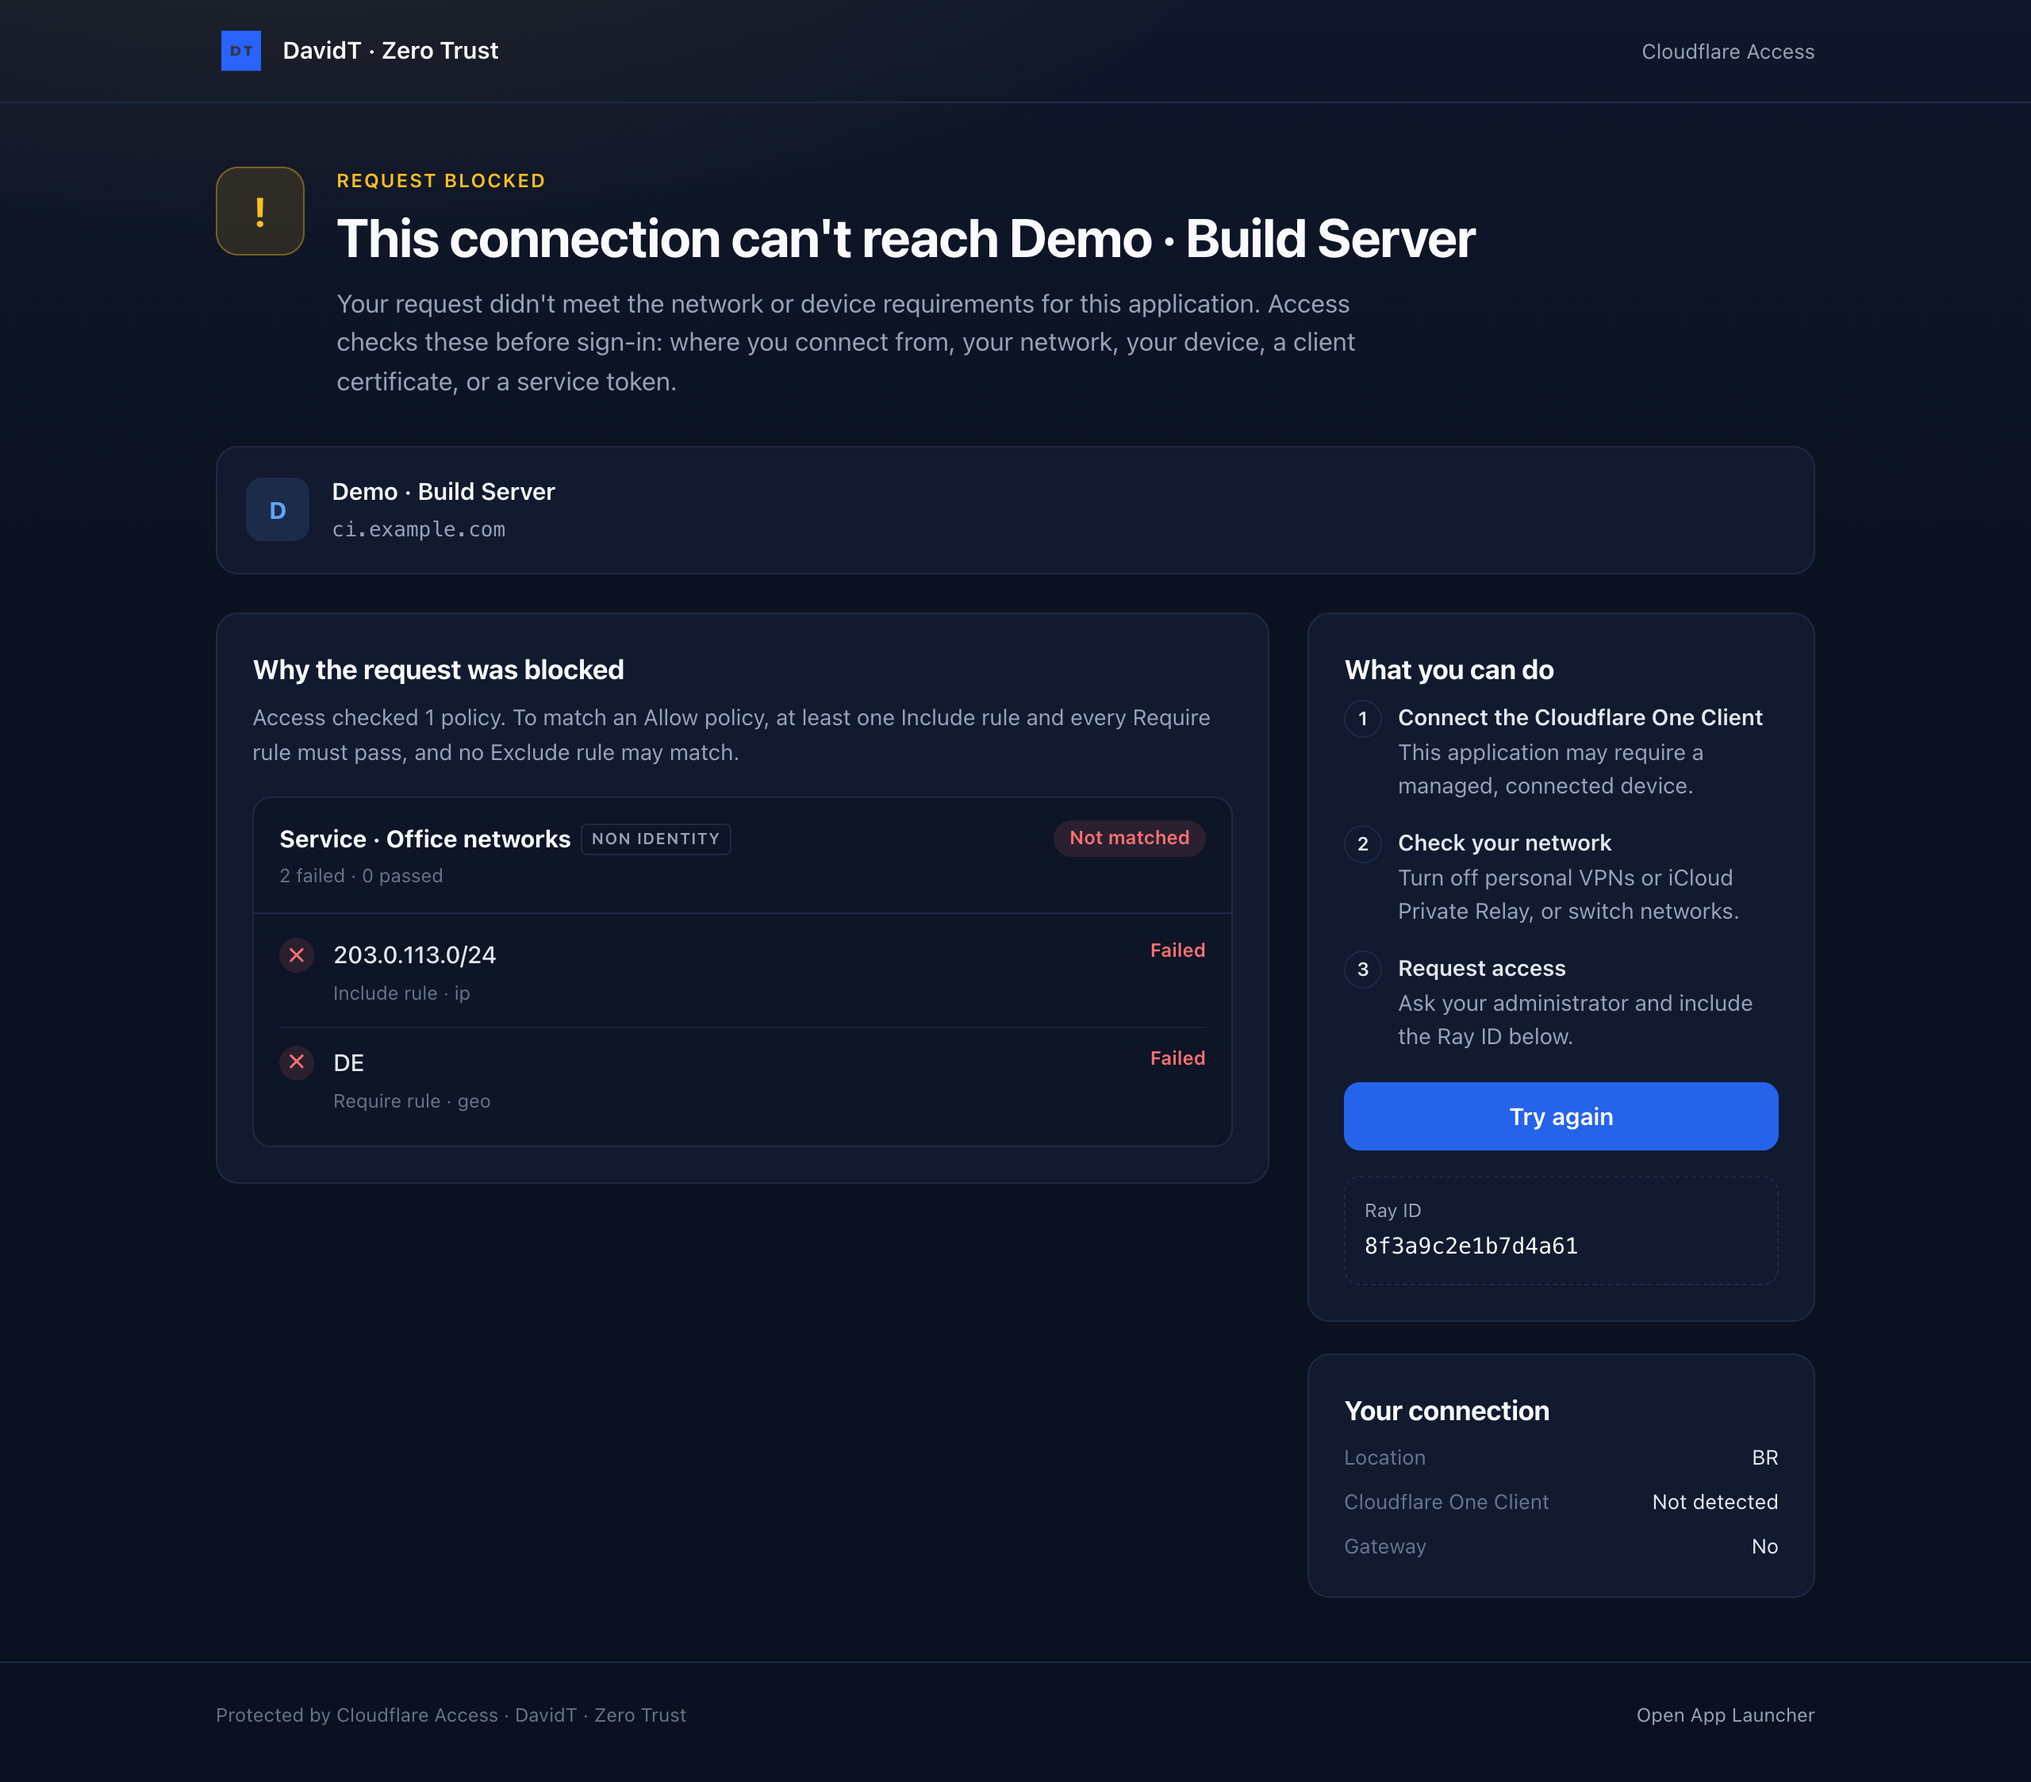
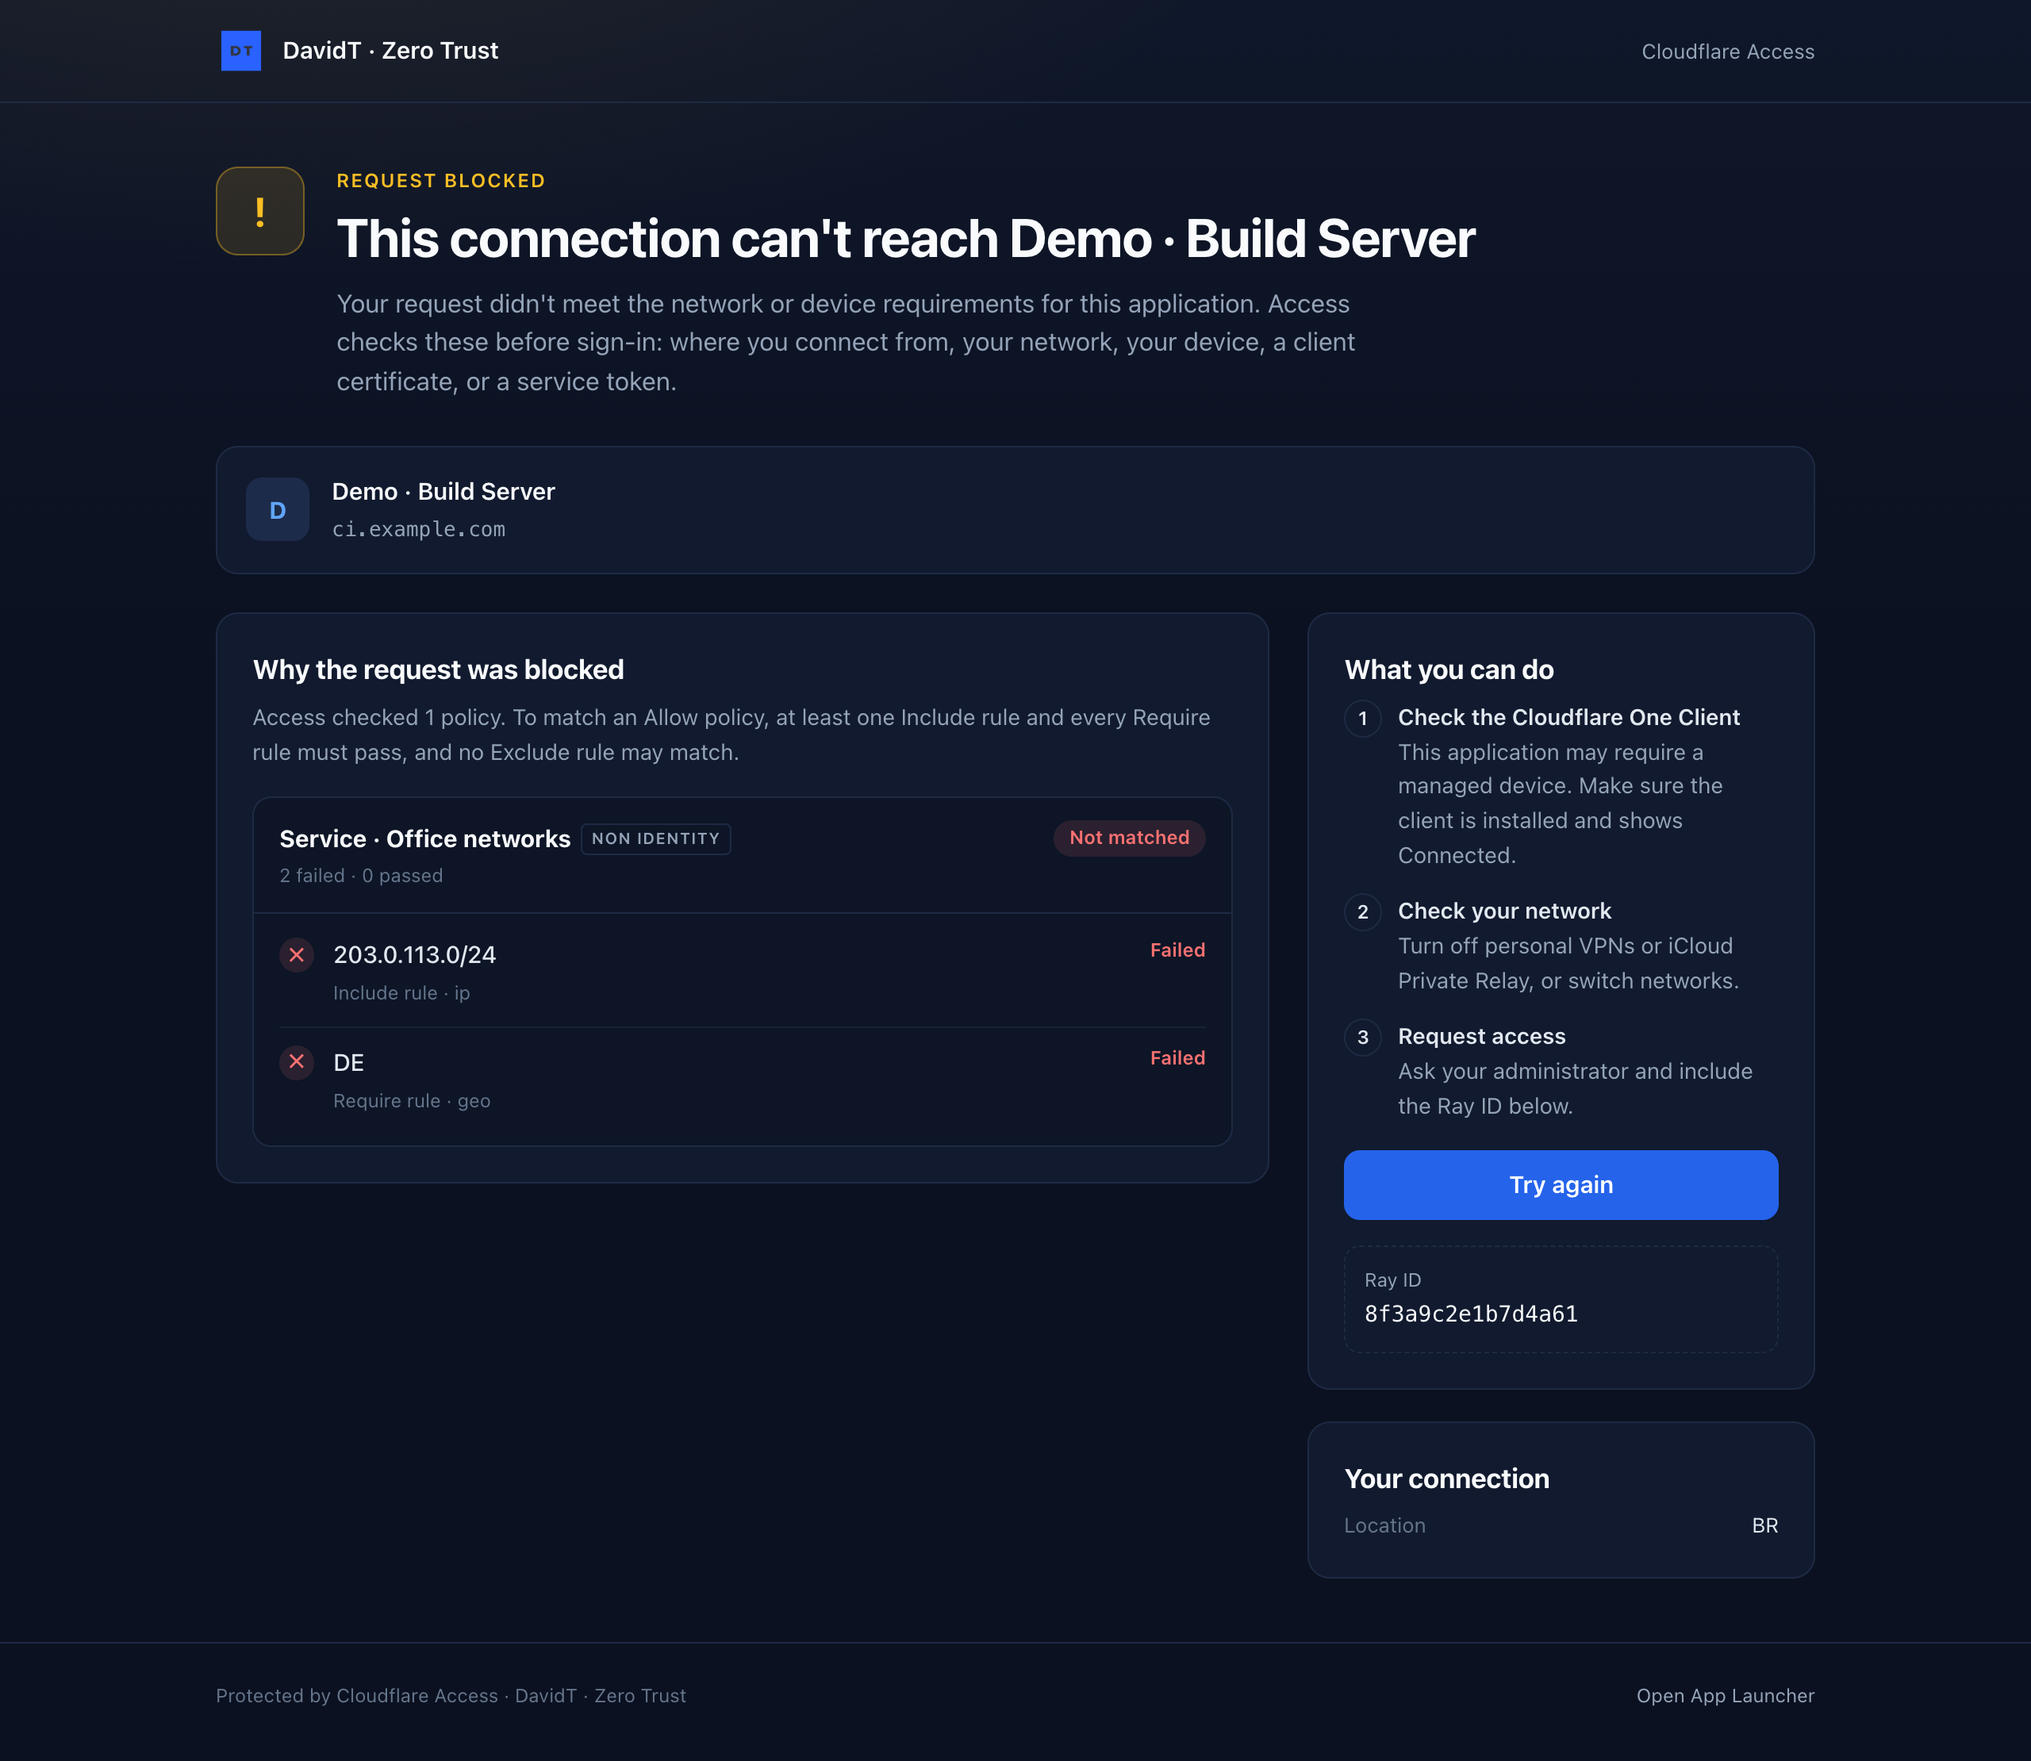
Show client and Gateway status only when Access reports it
In live tests with the Cloudflare One Client connected, Access left request.is_warp and request.is_gateway out of the Login page and sent false on the Forbidden page, so the templates claimed the client was off. They now show these values only when true, and always include a step to check the client. README, AGENTS.md and the Access screenshots are updated to match.

diff --git a/access-pages/forbidden.html b/access-pages/forbidden.html
@@ -9,6 +9,9 @@
   rule names are written by your admins: review them before you show them to
   end users. Remove the groups list if group names are sensitive.
 
+  Access doesn't reliably report request.is_warp or request.is_gateway (seen
+  absent or false while the client was connected), so only true is shown.
+
   No scripts, SVG, <link>, <button>, <form>, or url() in CSS.
 {% endcomment %}
 {% assign brand_name = "DavidT · Zero Trust" %}
@@ -302,9 +305,7 @@
           <section class="panel">
             <h2>What you can do</h2>
             <ol class="steps">
-              {% unless request.is_warp %}
-              <li><b>Connect the Cloudflare One Client</b>This application may require a managed, connected device.</li>
-              {% endunless %}
+              <li><b>Check the Cloudflare One Client</b>This application may require a managed device. Make sure the client is installed and shows Connected.</li>
               {% if failed_checks > 0 %}
               <li><b>Fix your device</b>Update your OS and security software, then try again.</li>
               {% endif %}
@@ -326,8 +327,8 @@
               {% if user.amr.size > 0 %}<dt>Methods</dt><dd class="mono">{{ user.amr | join: ", " }}</dd>{% endif %}
               {% if user.risk_score.size > 0 %}<dt>Risk score</dt><dd>{{ user.risk_score | capitalize }}</dd>{% endif %}
               {% if request.country.size > 0 %}<dt>Location</dt><dd>{{ request.country }}</dd>{% endif %}
-              <dt>Cloudflare One Client</dt><dd>{% if request.is_warp %}Connected{% else %}Not detected{% endif %}</dd>
-              <dt>Gateway</dt><dd>{% if request.is_gateway %}Yes{% else %}No{% endif %}</dd>
+              {% if request.is_warp %}<dt>Cloudflare One Client</dt><dd>Connected</dd>{% endif %}
+              {% if request.is_gateway %}<dt>Gateway</dt><dd>Active</dd>{% endif %}
             </dl>
           </section>
 

diff --git a/access-pages/identity-denied.html b/access-pages/identity-denied.html
@@ -8,6 +8,9 @@
   rule names are written by your admins: review them before you show them to
   end users. Remove the groups list if group names are sensitive.
 
+  Access doesn't reliably report request.is_warp or request.is_gateway (seen
+  absent or false while the client was connected), so only true is shown.
+
   No scripts, SVG, <link>, <button>, <form>, or url() in CSS.
 {% endcomment %}
 {% assign brand_name = "DavidT · Zero Trust" %}
@@ -301,9 +304,7 @@
           <section class="panel">
             <h2>What you can do</h2>
             <ol class="steps">
-              {% unless request.is_warp %}
-              <li><b>Connect the Cloudflare One Client</b>This application may require a managed, connected device.</li>
-              {% endunless %}
+              <li><b>Check the Cloudflare One Client</b>This application may require a managed device. Make sure the client is installed and shows Connected.</li>
               {% if failed_checks > 0 %}
               <li><b>Fix your device</b>Update your OS and security software, then try again.</li>
               {% endif %}
@@ -325,8 +326,8 @@
               {% if user.amr.size > 0 %}<dt>Methods</dt><dd class="mono">{{ user.amr | join: ", " }}</dd>{% endif %}
               {% if user.risk_score.size > 0 %}<dt>Risk score</dt><dd>{{ user.risk_score | capitalize }}</dd>{% endif %}
               {% if request.country.size > 0 %}<dt>Location</dt><dd>{{ request.country }}</dd>{% endif %}
-              <dt>Cloudflare One Client</dt><dd>{% if request.is_warp %}Connected{% else %}Not detected{% endif %}</dd>
-              <dt>Gateway</dt><dd>{% if request.is_gateway %}Yes{% else %}No{% endif %}</dd>
+              {% if request.is_warp %}<dt>Cloudflare One Client</dt><dd>Connected</dd>{% endif %}
+              {% if request.is_gateway %}<dt>Gateway</dt><dd>Active</dd>{% endif %}
             </dl>
           </section>
 

diff --git a/access-pages/login.html b/access-pages/login.html
@@ -10,6 +10,9 @@
 
   The authbox draws its labels in org.text_color and its buttons in white,
   so it sits on the light lower half of the card.
+
+  Access doesn't reliably report request.is_warp or request.is_gateway (seen
+  absent or false while the client was connected), so only true is shown.
 {% endcomment %}
 {% assign brand_name = org.name | default: "DavidT · Zero Trust" %}
 {% assign brand_logo = org.logo_url | default: "https://davidtofan.com/apple-touch-icon.png" %}
@@ -185,11 +188,7 @@
 
         <div class="meta">
           {% if request.country.size > 0 %}<span class="chip">Location · {{ request.country }}</span>{% endif %}
-          {% if request.is_warp %}
-          <span class="chip"><span class="dot dot--ok"></span>Cloudflare One Client on</span>
-          {% else %}
-          <span class="chip"><span class="dot"></span>Cloudflare One Client off</span>
-          {% endif %}
+          {% if request.is_warp %}<span class="chip"><span class="dot dot--ok"></span>Cloudflare One Client connected</span>{% endif %}
           {% if request.is_gateway %}<span class="chip"><span class="dot dot--ok"></span>Gateway</span>{% endif %}
         </div>
       </div>

diff --git a/access-pages/interstitial.html b/access-pages/interstitial.html
@@ -6,6 +6,8 @@
 
   Rules: exactly one <cf-access-cli-approval>, outside any Liquid condition.
   It sits on the light lower half of the card, like the login authbox.
+  Access doesn't reliably report request.is_warp or request.is_gateway (seen
+  absent or false while the client was connected), so only true is shown.
   No scripts, SVG, <link>, <button>, <form>, or url() in CSS.
 {% endcomment %}
 {% assign brand_name = "DavidT · Zero Trust" %}
@@ -147,7 +149,7 @@
           <dt>Requested by</dt><dd><code>{{ tool }}</code></dd>
           {% if user.email.size > 0 %}<dt>Signed in as</dt><dd>{{ user.email }}</dd>{% endif %}
           {% if request.country.size > 0 %}<dt>Location</dt><dd>{{ request.country }}</dd>{% endif %}
-          <dt>Cloudflare One Client</dt><dd>{% if request.is_warp %}Connected{% else %}Not detected{% endif %}</dd>
+          {% if request.is_warp %}<dt>Cloudflare One Client</dt><dd>Connected</dd>{% endif %}
         </dl>
 
         <p class="notice">

diff --git a/README.md b/README.md
@@ -51,7 +51,7 @@ The App Launcher link uses the placeholder `your-team.cloudflareaccess.com`. `np
 
 What each page shows:
 
-- **Login**: application name and domain, sign-in status messages (`message.level`), and connection chips (country, Cloudflare One Client, Gateway). Access injects the identity provider buttons and the one-time PIN form into `<cf-access-authbox>`. They render in Cloudflare's own white style and use `org.text_color` for labels, so they sit on the light half of a two-tone card.
+- **Login**: application name and domain, sign-in status messages (`message.level`), and connection chips: the country, plus Cloudflare One Client and Gateway only when Access reports them as on. Access injects the identity provider buttons and the one-time PIN form into `<cf-access-authbox>`. They render in Cloudflare's own white style and use `org.text_color` for labels, so they sit on the light half of a two-tone card.
 - **Identity denied**: every evaluated policy from `policy_evaluation`, with failed rules first and passed rules collapsed, plus device posture results, session details (IdP, auth methods, risk score), groups, next steps, and the Ray ID.
 - **Forbidden**: the same layout, written for checks that run before sign-in (location, IP, device, certificate, service token).
 - **Interstitial**: what's asking for the session (`requesting_tool`), for which app and user, plus a "only approve if you ran this" warning around `<cf-access-cli-approval>`.
@@ -61,6 +61,7 @@ Sandbox rules found while building these. The validator enforces them, and the d
 - No `<script>`, inline event handlers, `<svg>`, `<button>`, `<form>`, `<link>`, `<meta http-equiv>`, or `@import`/`url()` in CSS. Use system fonts, Unicode glyphs and CSS shapes; `<img>` with HTTPS URLs works.
 - Liquid treats an empty string as true, and Access sends some fields empty (for example `ray_id`). Check strings with `{% if x.size > 0 %}`, not `{% if x %}`.
 - `policy_evaluation` can be absent, for example when a service-auth (`non_identity`) policy fails. Every template has a fallback.
+- `request.is_warp` and `request.is_gateway` aren't reliable. In live tests, with the Cloudflare One Client connected (the edge trace showed `warp=on`, `gateway=on`), Access left them out on the Login page and sent `false` on the Forbidden page. The templates show them only when they're `true`, and always include a "check the Cloudflare One Client" step.
 - When you create a template through the API, send `contract_version` (the `version` returned by `/access/custom_pages/validate`). Without it the page is stored as a legacy page and the Liquid is shown verbatim.
 
 ### Preview locally

diff --git a/AGENTS.md b/AGENTS.md
@@ -40,6 +40,7 @@ This is a real account with production applications. Treat every write as produc
 4. **Don't set account defaults** for custom pages, or assign templates to existing apps, without asking. Defaults apply to every app, including private ones.
 5. **DNS changes need explicit user approval** (new hostnames, Worker custom domains). To test without DNS, add a temporary, path-scoped self-hosted app on an existing proxied hostname, set `app_launcher_visible: false`, and delete it, plus any probe templates, when you're done.
 6. Report what you changed, and anything you couldn't verify.
+7. Testing Gateway block pages: browsers with their own Secure DNS (DoH to 1.1.1.1) bypass Gateway DNS. Network (L4) policies run before HTTP policies and close the connection without a block page, so the result is `ERR_CONNECTION_CLOSED`. Check `cdn-cgi/trace`, `dig` against the client resolver, and the Gateway network and HTTP logs before blaming the block page.
 
 ## Access custom page templates
 
@@ -62,6 +63,8 @@ Observed live:
 - An IdP's `name` can be empty (the Cloudflare IdP).
 - `ray_id` came back empty on a Forbidden page.
 - `policy_evaluation` is absent when a service-auth (`non_identity`) policy fails.
+- `request.is_warp` and `request.is_gateway` didn't reflect a connected client: absent on Login, and `false` on Forbidden, while `cdn-cgi/trace` showed `warp=on` and `gateway=on`. Forbidden also reported a different `request.country` from Login. The org had WARP authentication identity (`allow_authenticate_via_warp`) turned off, which may be the cause; this is untested. Only show these values when `true`, and never print "off" or "not detected".
+- Newly created Access apps can take more than 10 minutes to load at the edge. Until then the path returns error 1043 ("Cannot find Access application").
 - Identity denied and Interstitial have only been rendered locally, because they need a real sign-in.
 
 ### Sandbox rules (enforced by `POST /access/custom_pages/validate`)
